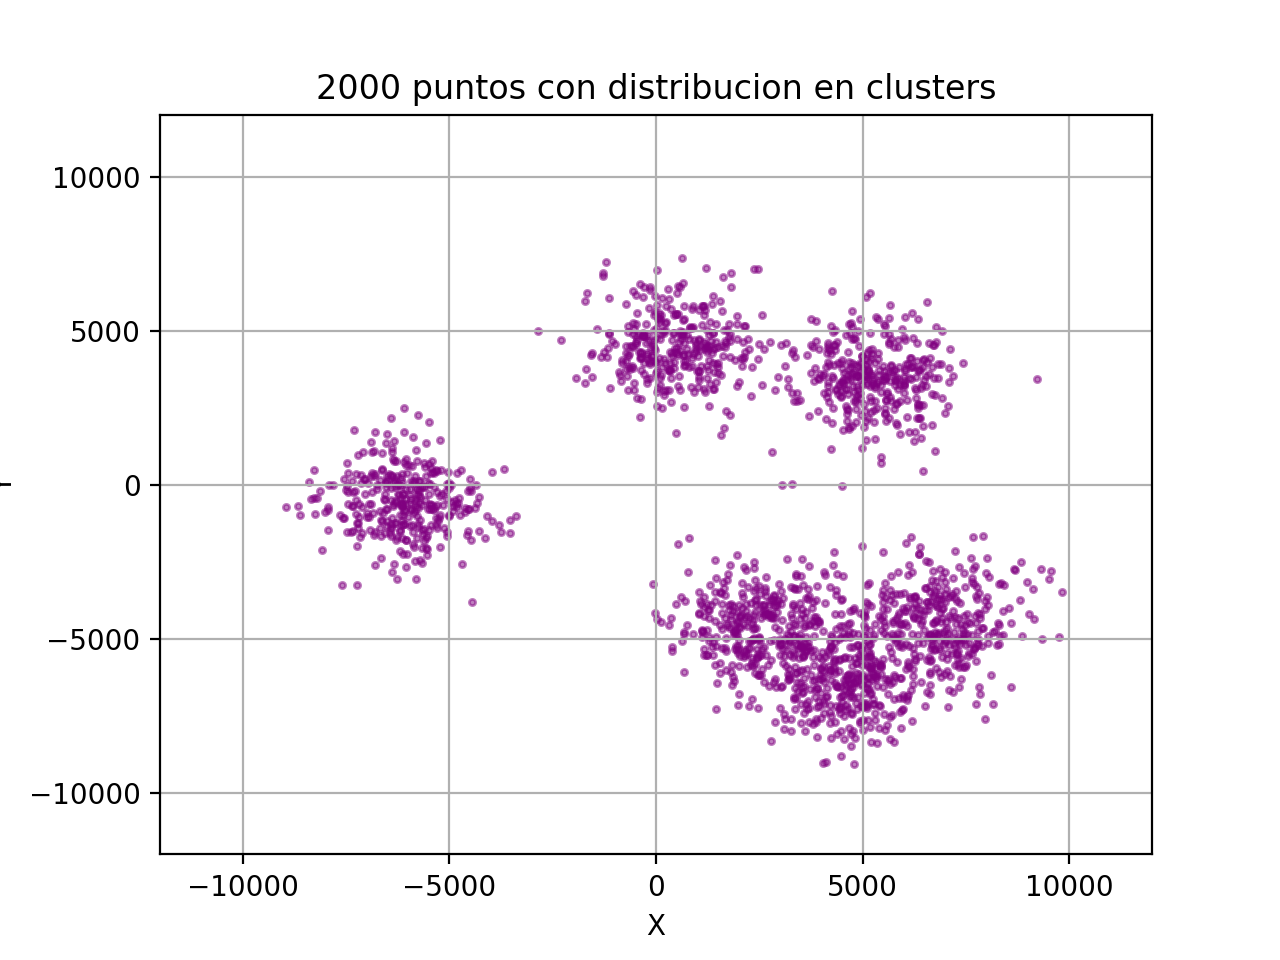
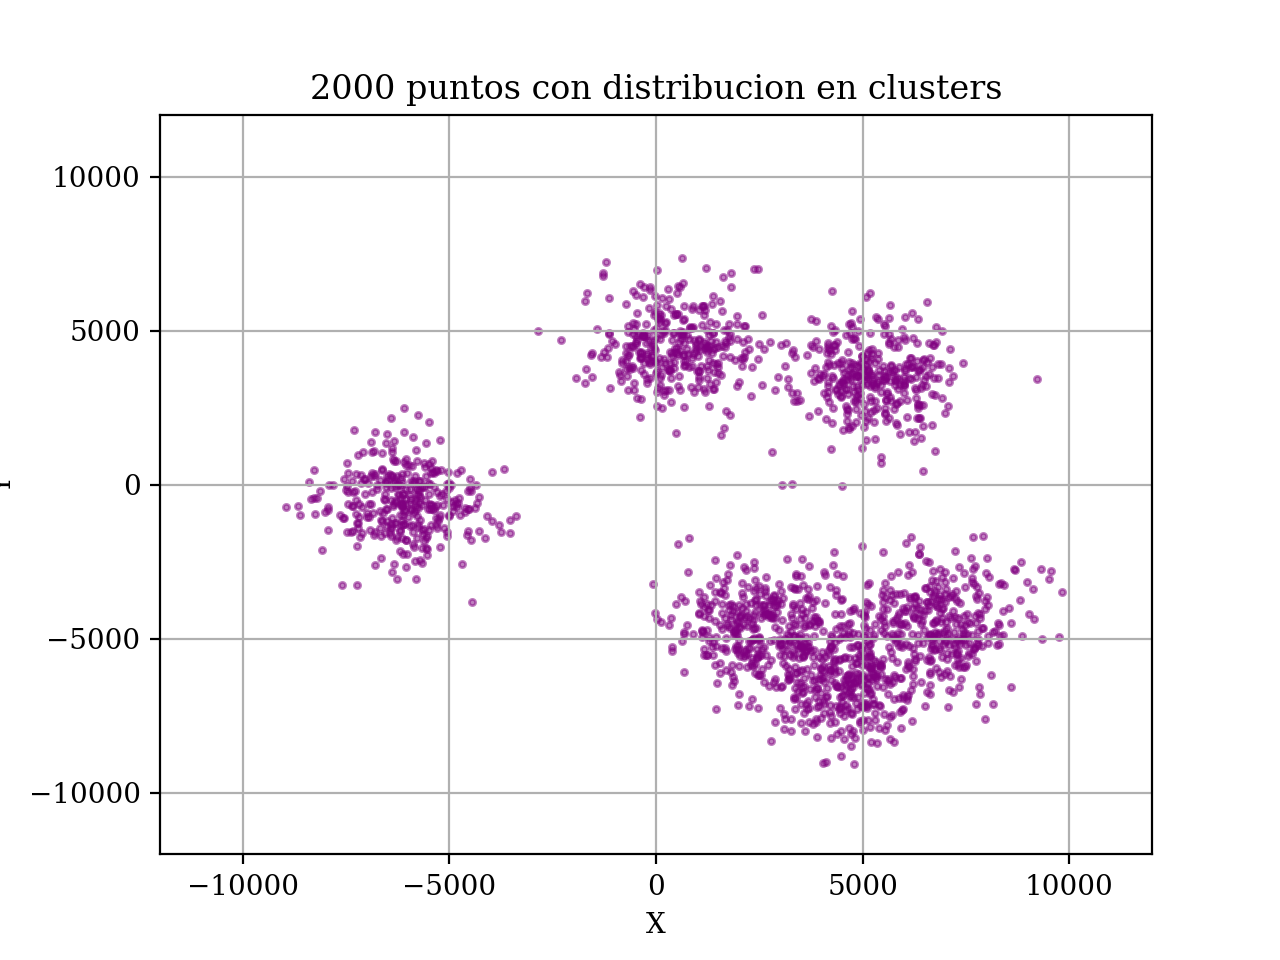
cambie fuente

diff --git a/graficos/graficos_R2.py b/graficos/graficos_R2.py
@@ -2,6 +2,12 @@
 import matplotlib.pyplot as plt
 import numpy as np
 
+plt.rcParams.update({
+    "font.family": "serif",
+    "font.serif": ["DejaVu Serif"],
+})
+#%%
+
 datos = np.loadtxt('..\instancias\distribucion\inst_n2_m2000_clusters.txt', skiprows=2)
 puntos = datos[:, :2]
 pesos = datos[:, 2]
